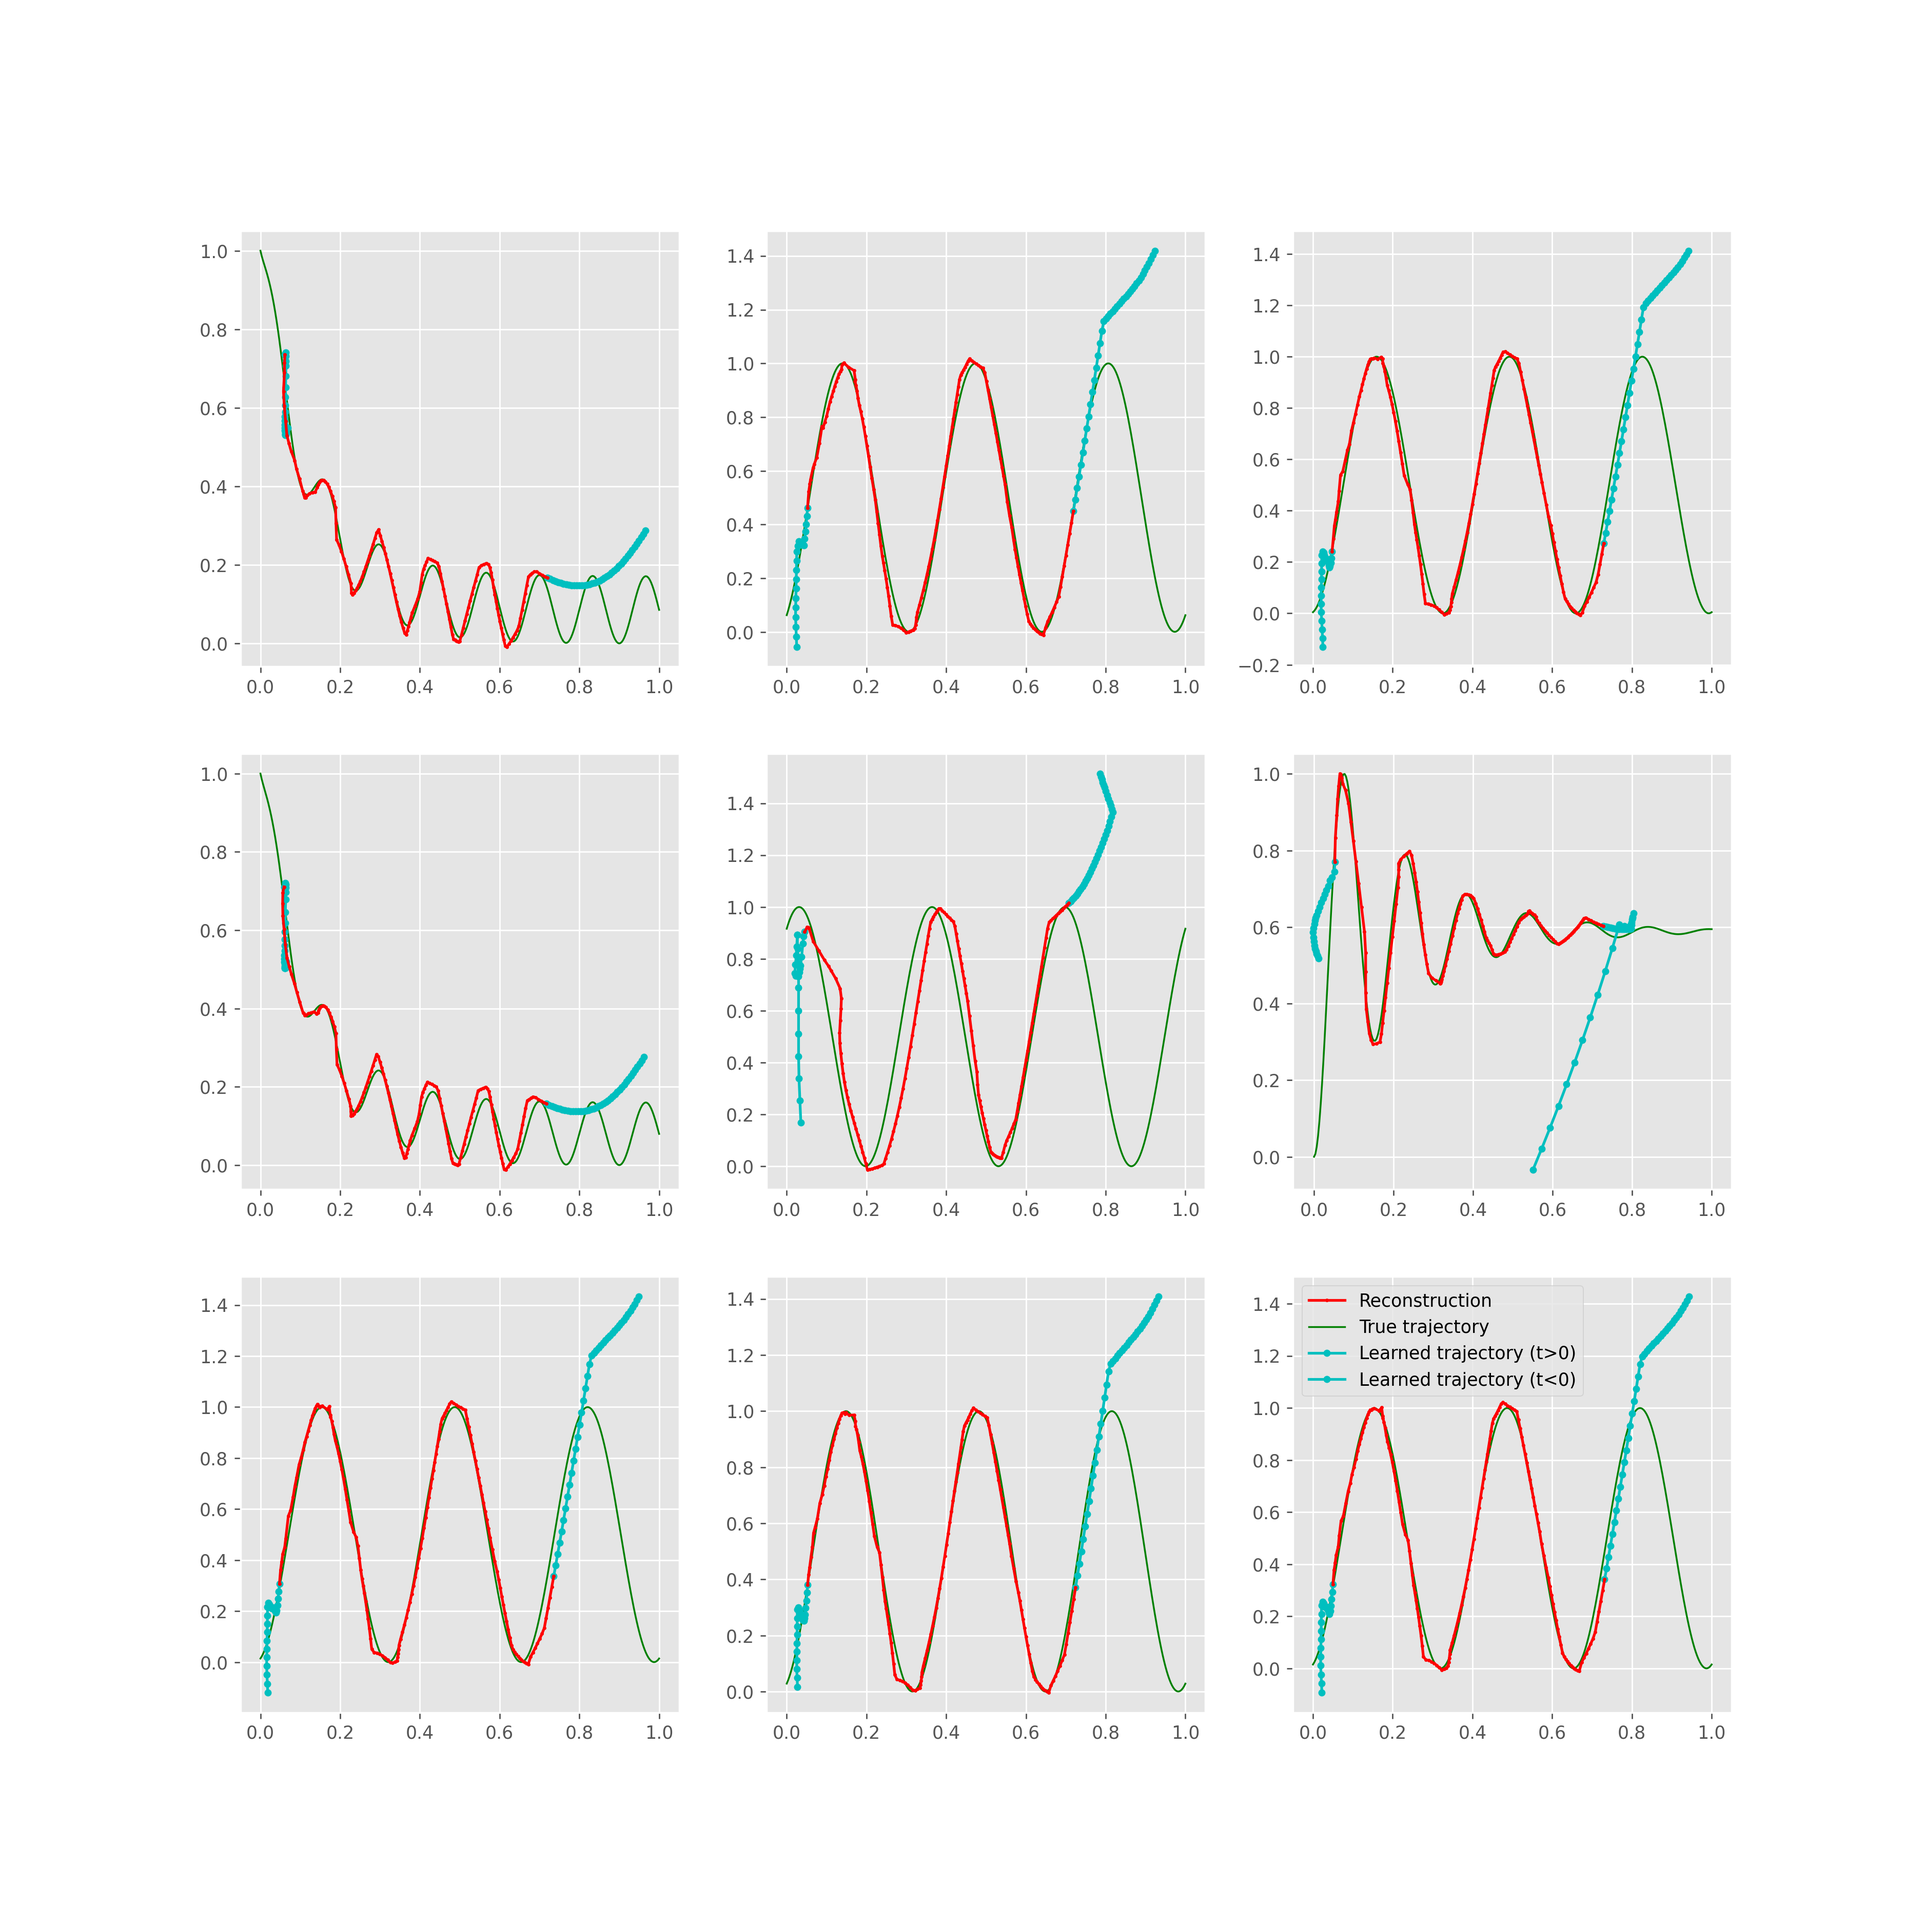
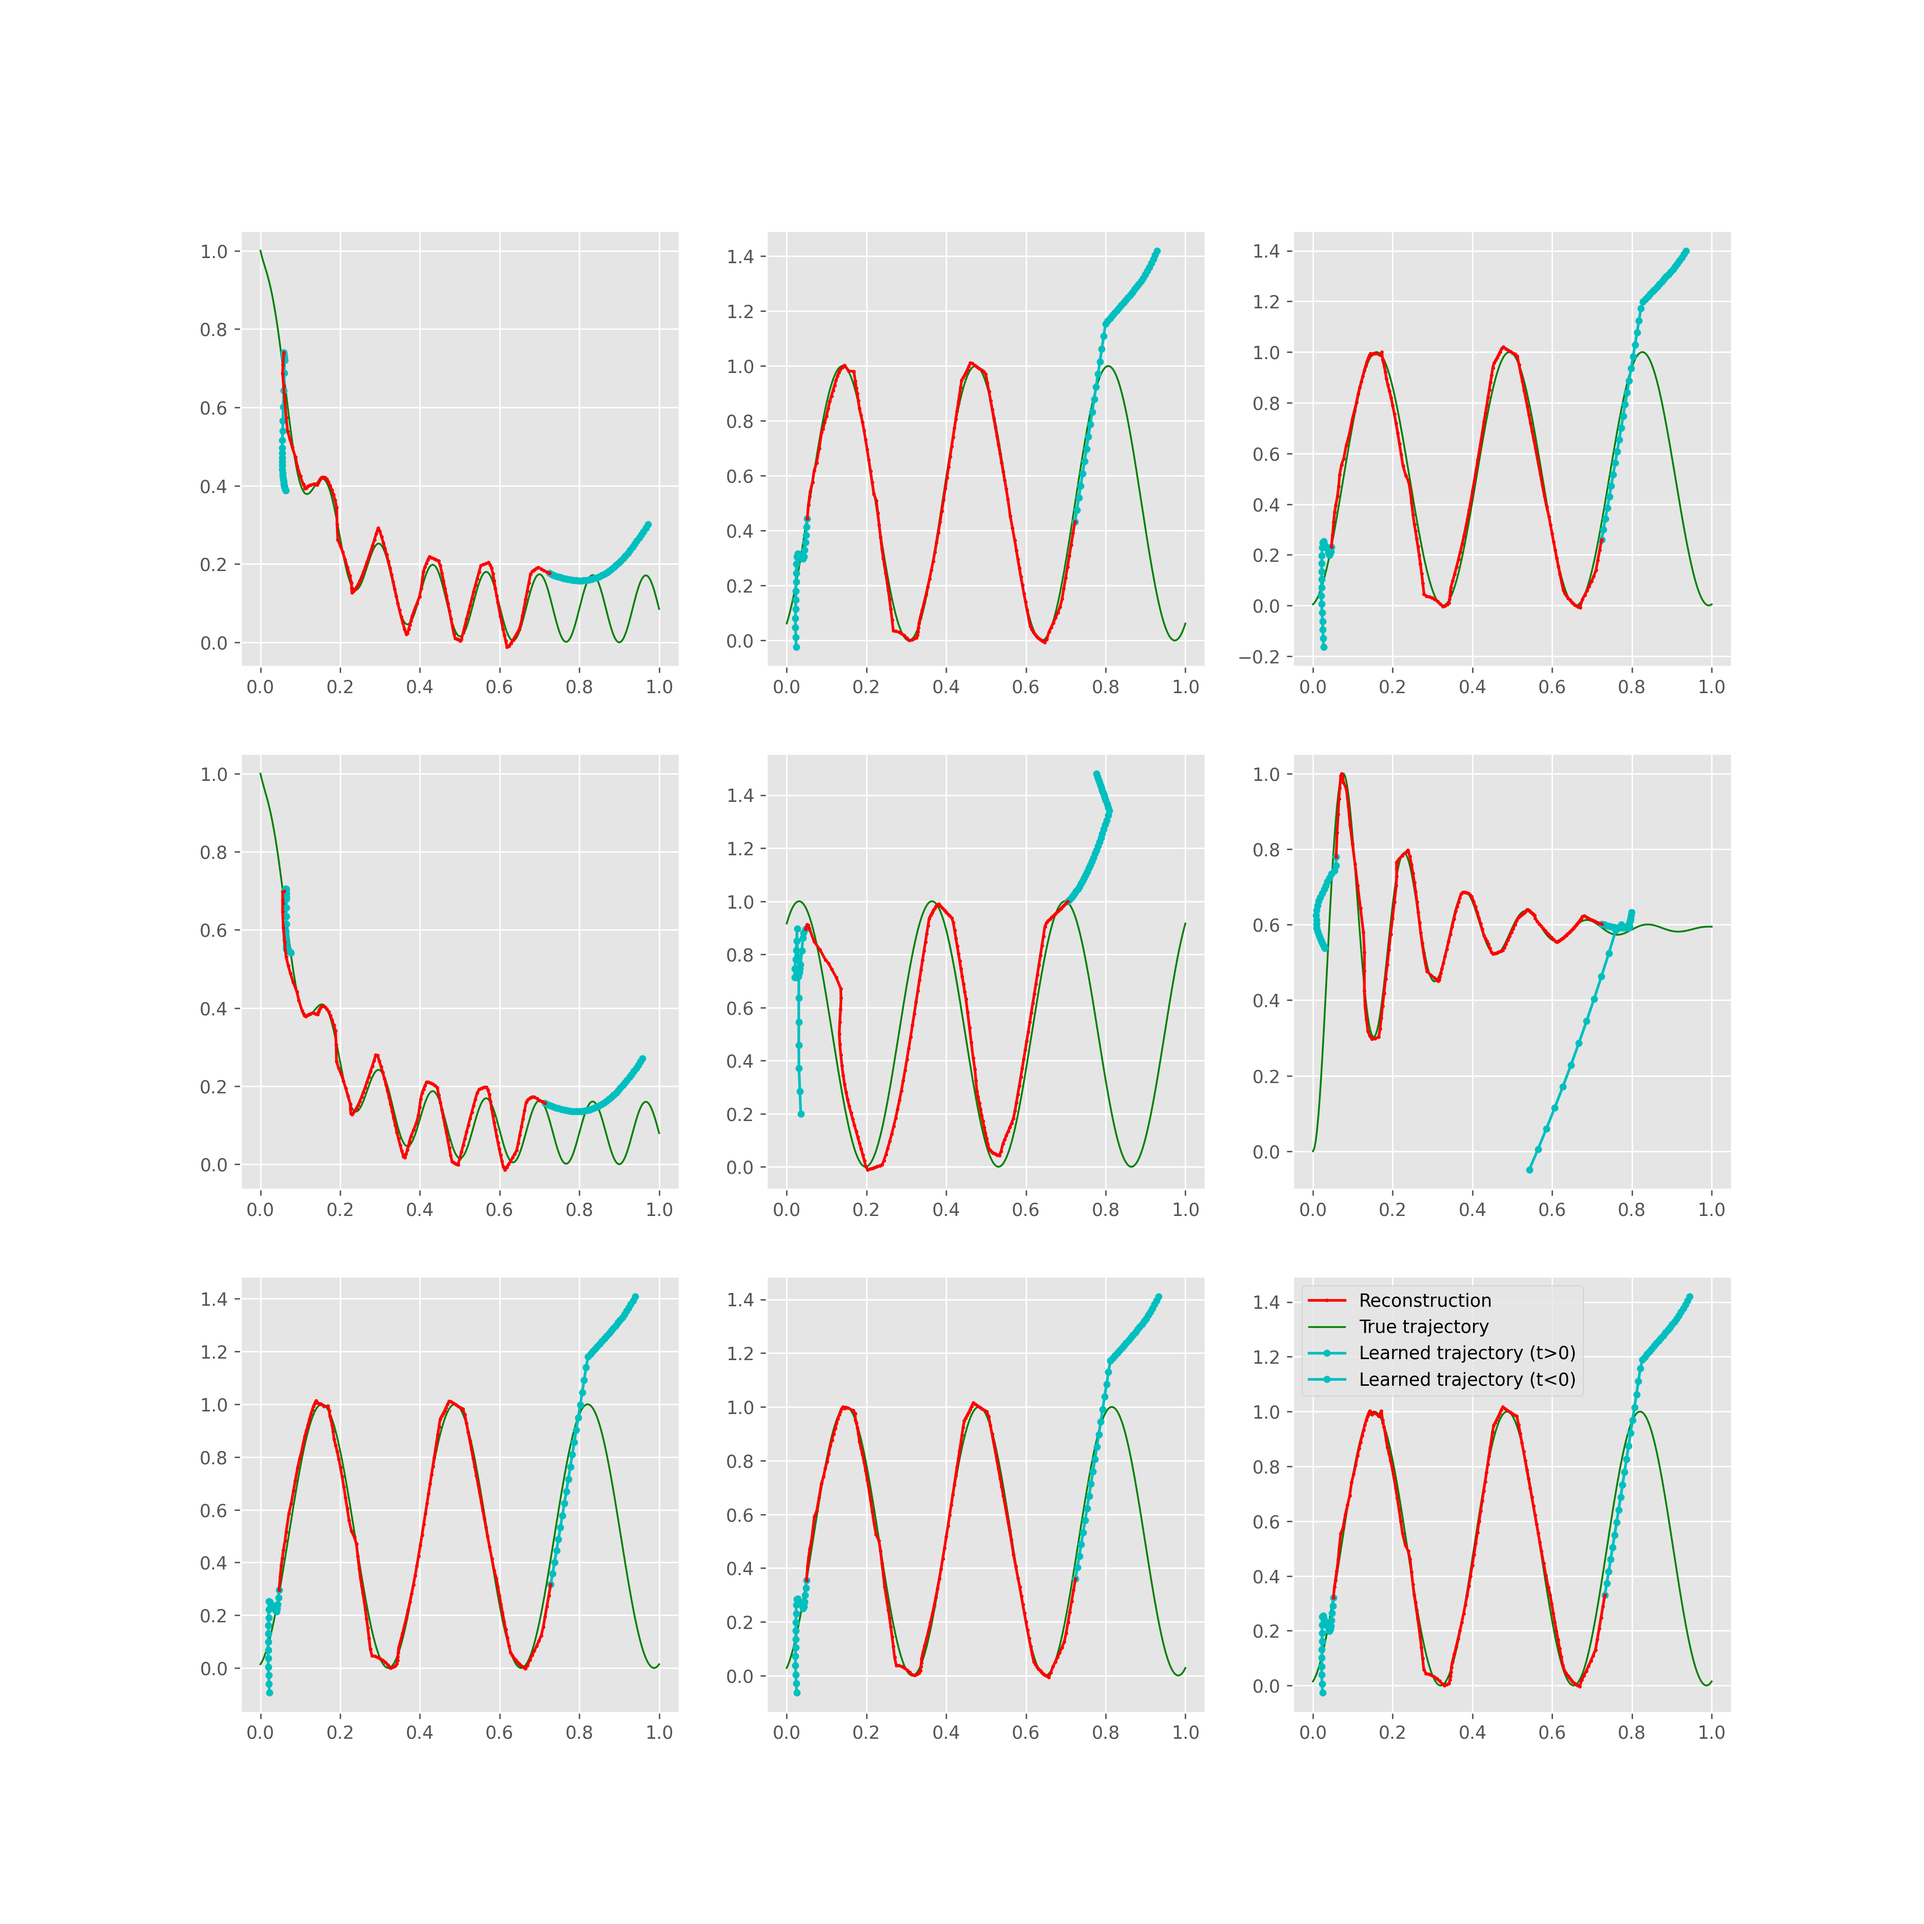
Adjust extrapolation length in Spiral examples

diff --git a/experiment/run_experiments.py b/experiment/run_experiments.py
@@ -83,6 +83,10 @@ def run(plot=True):
     models_class.append(ODEAutoEncoder)
     models_name.append('Real_ODE_VAE')
 
+    ##########################
+    # EXPERIMENT SCRIPT
+    ##########################
+
     save_folder = 'experiment/output/'
     setup_folders(save_folder)
 
@@ -140,10 +144,10 @@ def run(plot=True):
                                                                 test=True)
                 elif models_name[i].split('_')[0] == 'Toy':
                     trainer.visualizer.plot_reconstruction(fname=f"reconstruction_{models_name[i]}.png",
-                                                           t_pos=1 / 16 * np.pi,
-                                                           t_neg=1 / 16 * np.pi, idx=0, test=True)
+                                                           t_pos=1 / 2 * np.pi,
+                                                           t_neg=2 / 3 * np.pi, idx=0, test=True)
                     trainer.visualizer.plot_reconstruction_grid(fname=f"reconstruction_grid_{models_name[i]}.png",
-                                                                t_pos=1 / 16 * np.pi, t_neg=1 / 16 * np.pi, size=3,
+                                                                t_pos=1 / 2 * np.pi, t_neg=2 / 3 * np.pi, size=3,
                                                                 test=True)
                 elif models_name[i].split('_')[0] == 'Real':
                     trainer.visualizer.plot_reconstruction(fname=f"reconstruction_{models_name[i]}.png",
